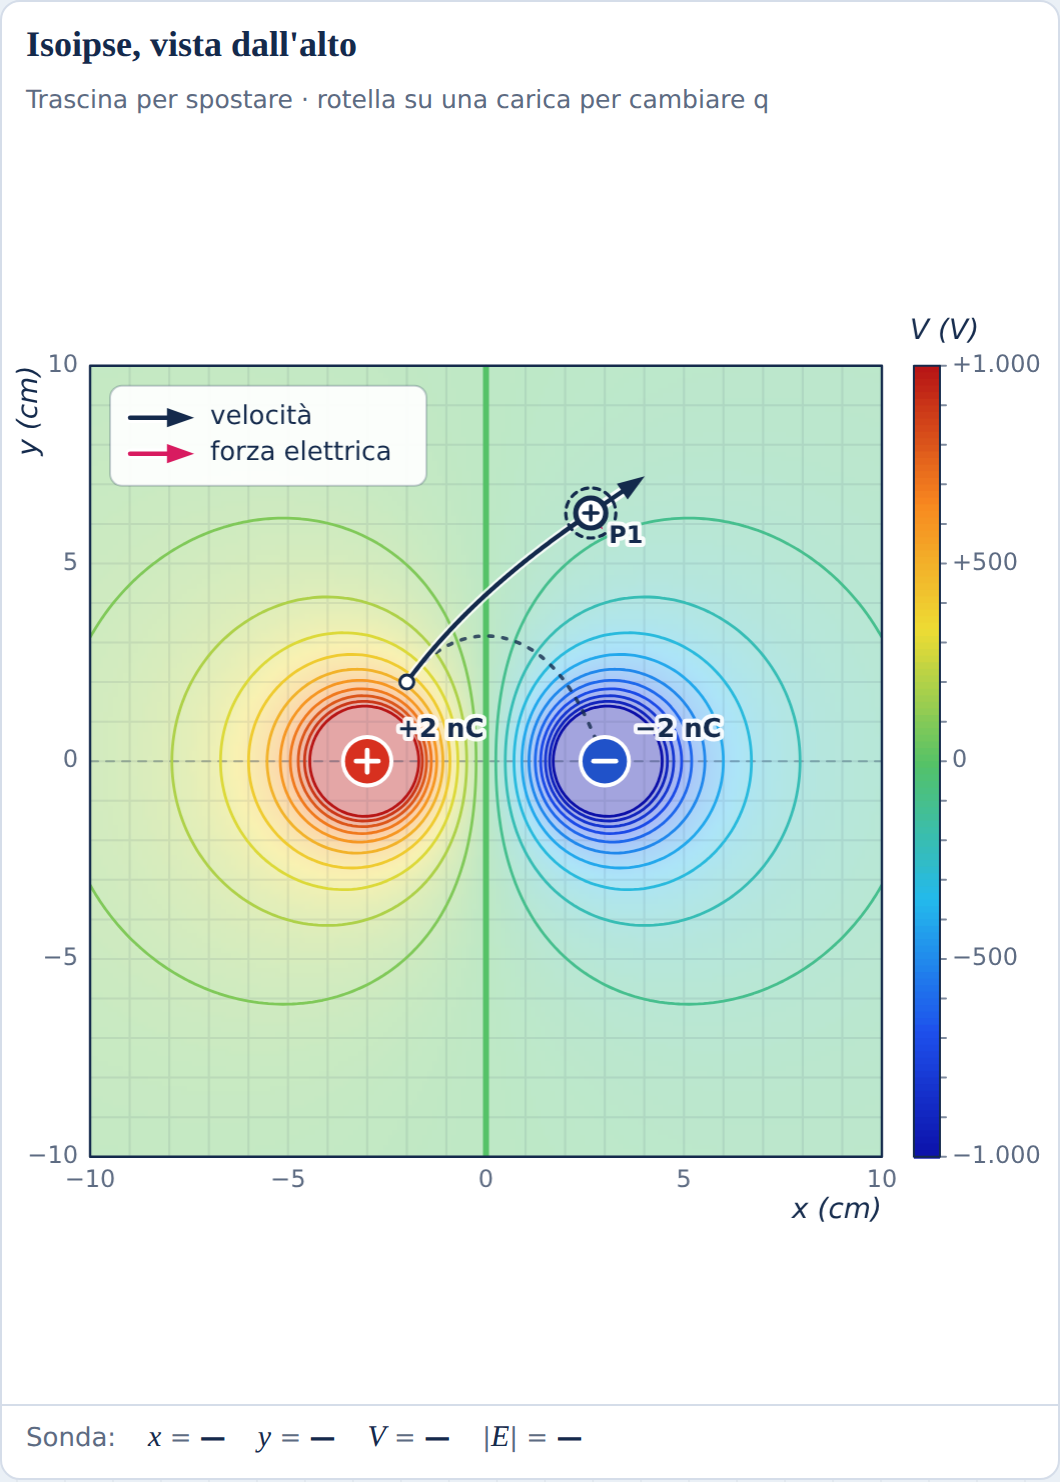
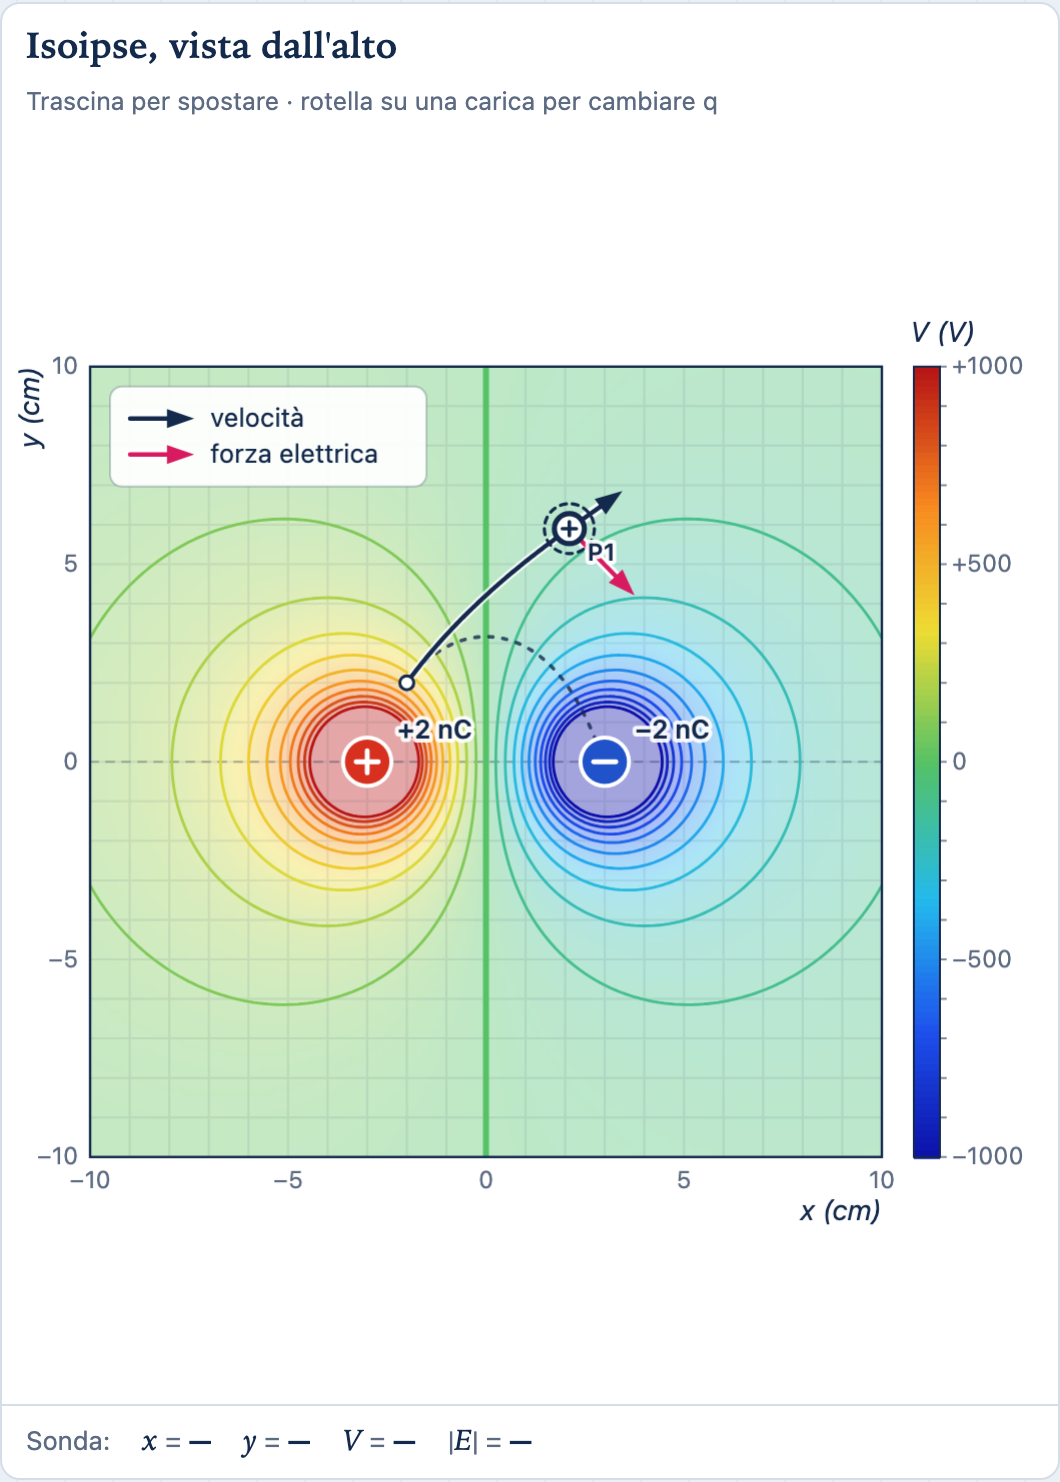
Freccia della forza sempre visibile sulla carica di prova; figura 4 rigenerata
Con forze deboli la freccia era più corta del raggio della pallina e restava
nascosta (es. figura 4, partenza da ferma nel dipolo). Ora parte dal bordo
della pallina e ha una parte proporzionale a sqrt(a) più lunga.

diff --git a/src/06-mappa2d.js b/src/06-mappa2d.js
@@ -98,7 +98,8 @@ function drawTestsAbove(ctx){
         const sx = toSX(p.x), sy = toSY(p.y), len = Math.hypot(p.vx, p.vy)*VS;
         if (len > 0.05){ const f = Math.min(len, 7)/len; drawArrow(ctx, sx, sy, sx + p.vx*VS*f*ppc, sy - p.vy*VS*f*ppc, col, 2.2); }
         elecAccel(p.x, p.y); const a = Math.hypot(_ax, _ay);
-        if (a > 1e-6){ const fl = Math.min(5, 0.9*Math.sqrt(a)); drawArrow(ctx, sx, sy, sx + _ax/a*fl*ppc, sy - _ay/a*fl*ppc, FCOL, 2.2); }
+        // la freccia parte dal bordo della pallina (≈ 16 px), altrimenti con forze deboli resta nascosta sotto di essa
+        if (a > 1e-6){ const fl = 16 + Math.min(5, 2.5*Math.sqrt(a))*ppc; drawArrow(ctx, sx, sy, sx + _ax/a*fl, sy - _ay/a*fl, FCOL, 2.2); }
       }
     } else {
       const v = Math.hypot(p.vx0, p.vy0), sx = toSX(p.x0), sy = toSY(p.y0);
